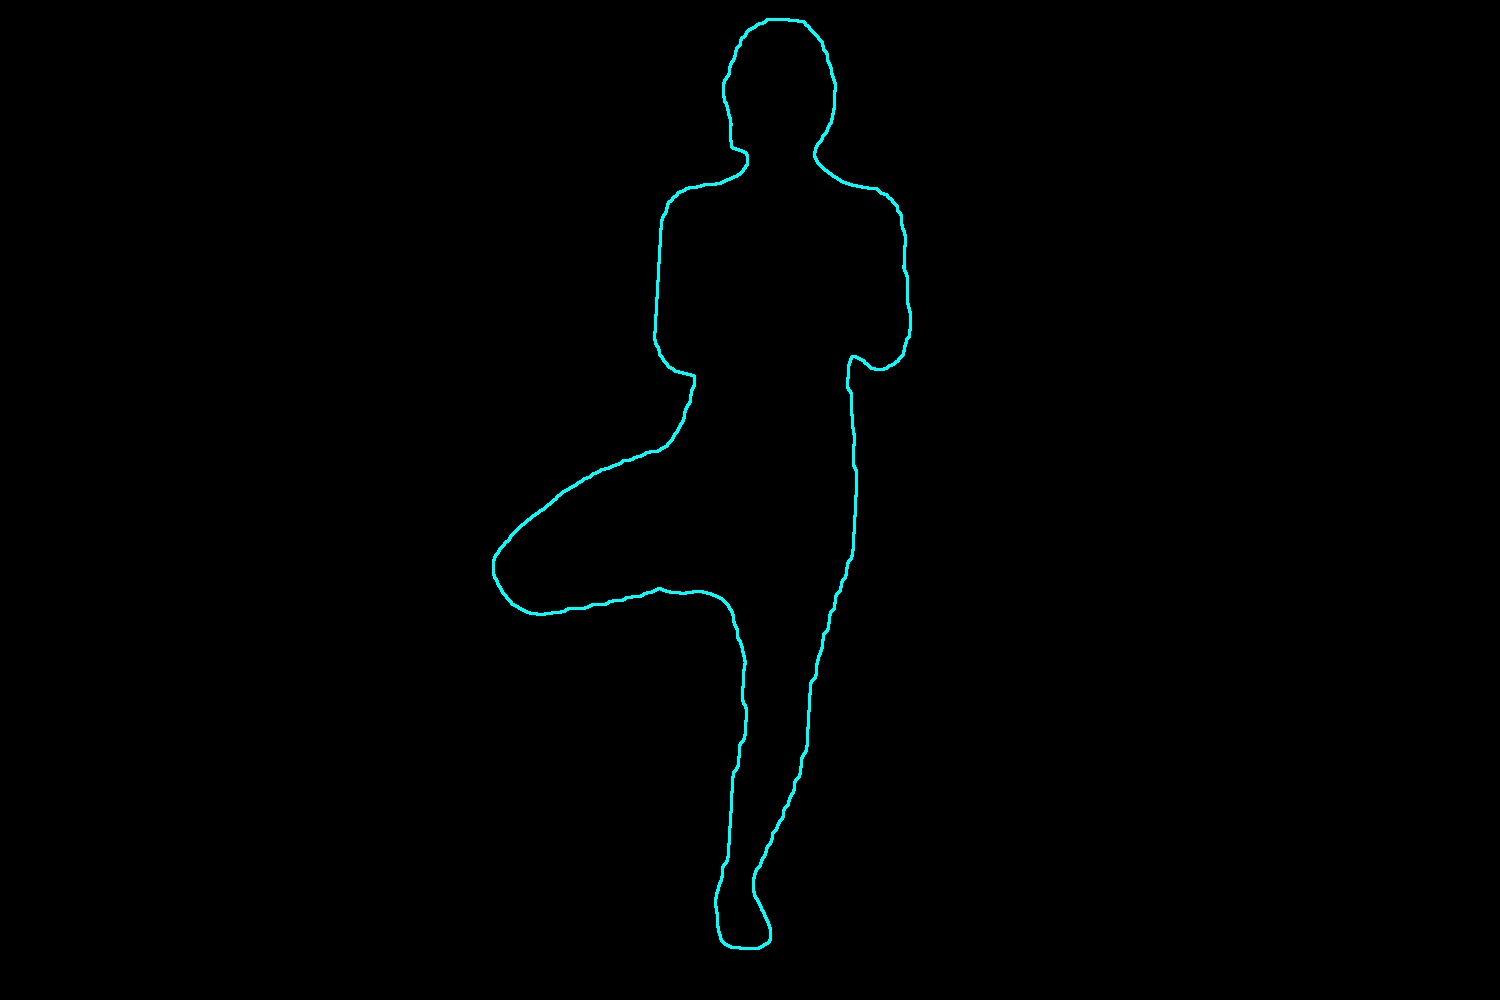
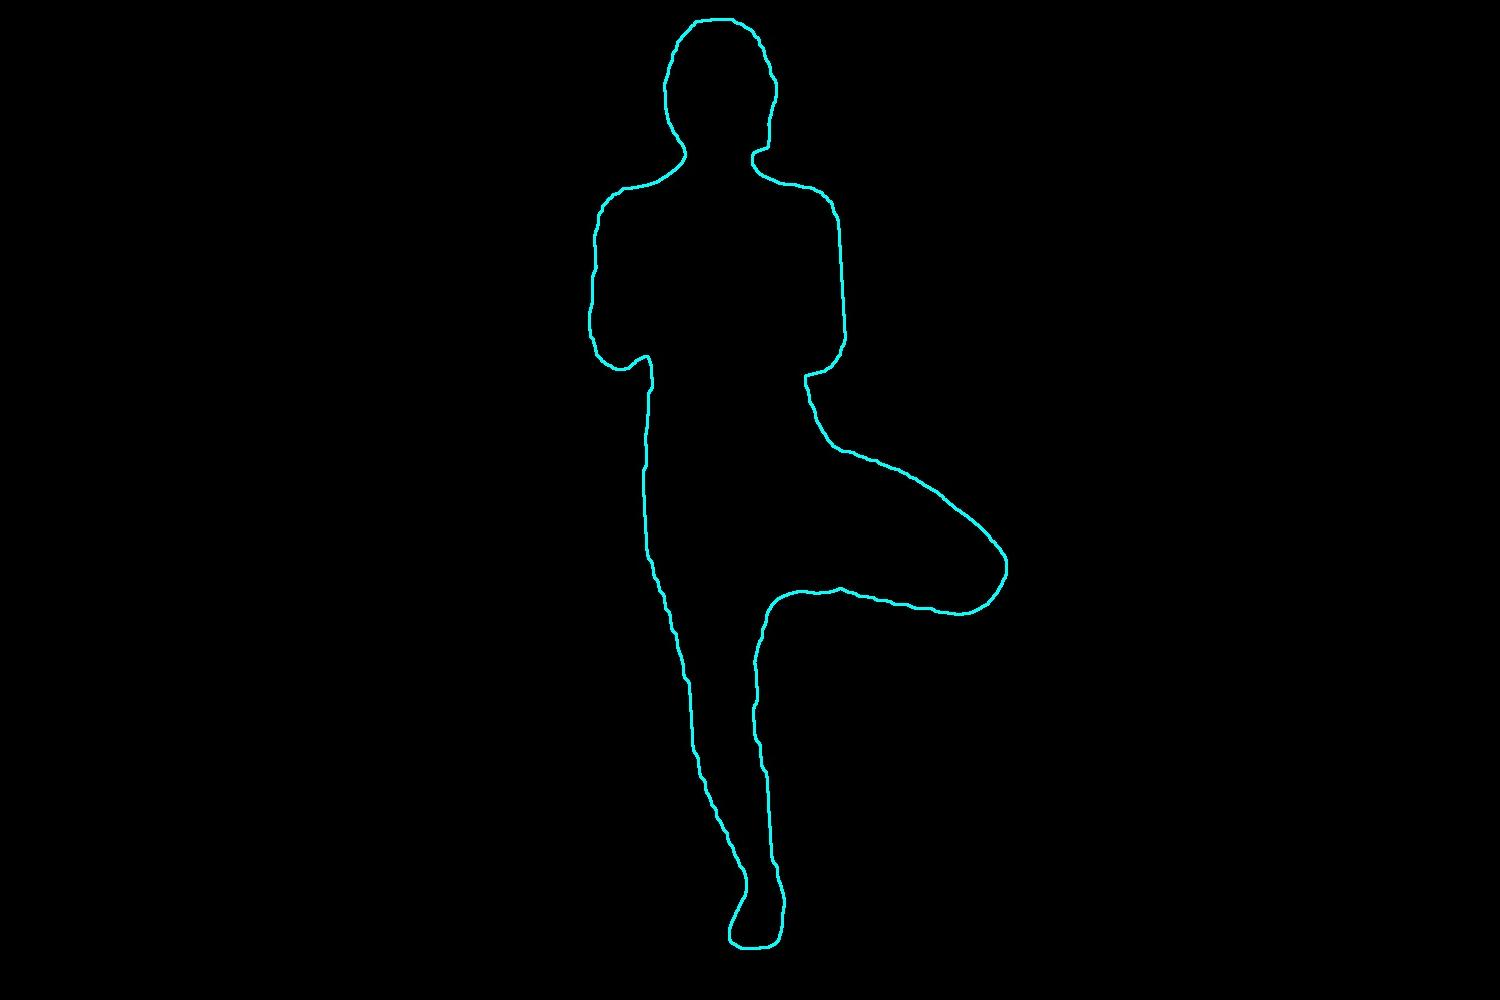
fix: show hidden overflowing joint guidance

diff --git a/pose-estimation-app/src/index.css b/pose-estimation-app/src/index.css
@@ -1571,15 +1571,12 @@
 
 /* Joint guidance */
 .ya-joints {
-  flex: 1;
-  min-height: 0;
   background: var(--ya-paper-2);
   border: 1px solid var(--ya-rule);
   border-radius: 14px;
   padding: 14px 16px 12px;
   display: flex;
   flex-direction: column;
-  overflow: hidden;
 }
 
 .ya-joints-head {
@@ -1612,8 +1609,6 @@
   list-style: none;
   padding: 0;
   margin: 0;
-  flex: 1;
-  min-height: 0;
   display: flex;
   flex-direction: column;
 }

diff --git a/scripts/flip_tree.py b/scripts/flip_tree.py
@@ -1,0 +1,29 @@
+import os
+from PIL import Image
+
+def flip_image_horizontally(image_path):
+    print(f"Checking {image_path}...")
+    if not os.path.exists(image_path):
+        print(f"Warning: File {image_path} does not exist.")
+        return
+
+    # Open image
+    img = Image.open(image_path)
+    
+    # Flip horizontally
+    flipped_img = img.transpose(Image.FLIP_LEFT_RIGHT)
+    
+    # Save back
+    flipped_img.save(image_path)
+    print(f"Successfully flipped {image_path} horizontally.")
+
+if __name__ == '__main__':
+    workspace_root = os.path.abspath(os.path.dirname(__file__))
+    
+    # Source asset path
+    src_tree_path = os.path.join(workspace_root, 'pose-estimation-app', 'src', 'assets', 'tree.jpg')
+    # Public asset path
+    public_tree_path = os.path.join(workspace_root, 'pose-estimation-app', 'public', 'yoga_outline', 'tree.jpg')
+    
+    flip_image_horizontally(src_tree_path)
+    flip_image_horizontally(public_tree_path)
